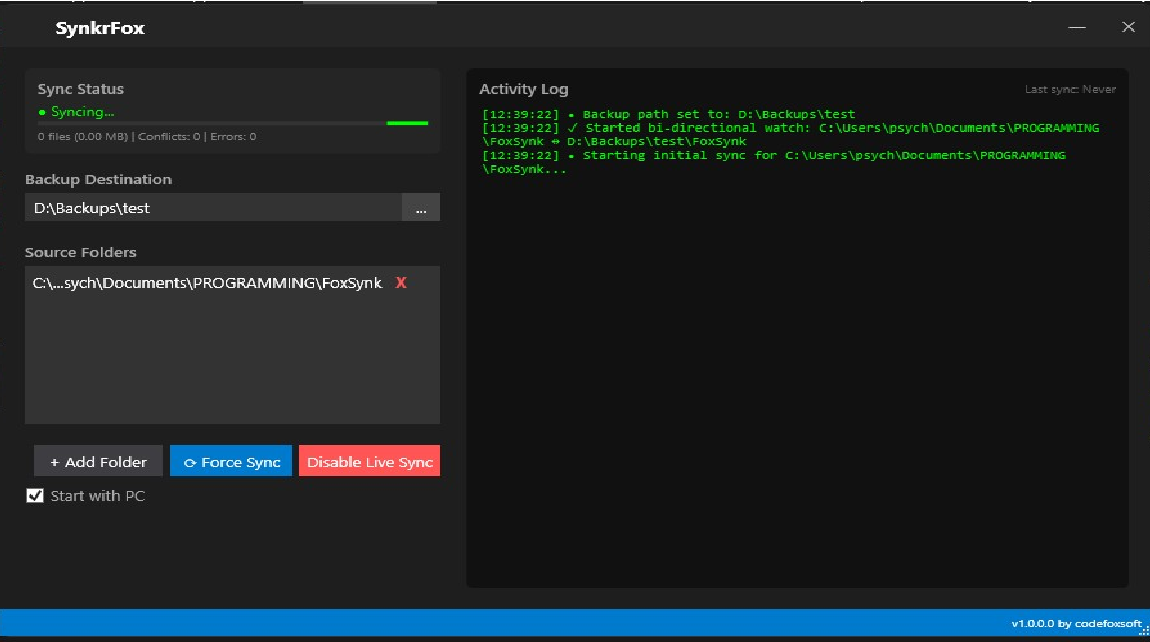
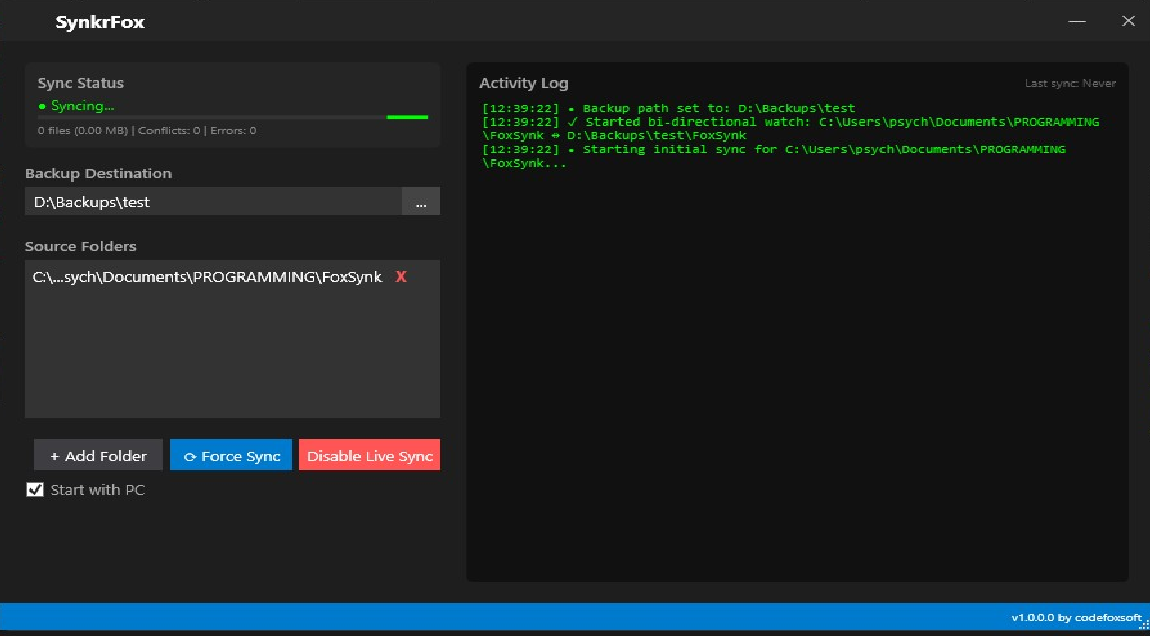
update_Fri-02-27_2041

diff --git a/synkrfox.html b/synkrfox.html
@@ -276,8 +276,8 @@
              <h2 class="text-3xl font-bold text-white mb-4">System Requirements</h2>
              <ul class="list-disc list-inside space-y-2 text-gray-300">
                  <li>Windows 10 or Windows 11</li>
-                 <li>Memory: 200MB RAM</li>
-                 <li>Storage: ~50MB available space</li>
+                 <li>Memory: 1 GB RAM</li>
+                 <li>Storage: ~300MB available space</li>
                  <li>Optional: External drive, USB stick, or backup destination</li>
              </ul>
 
